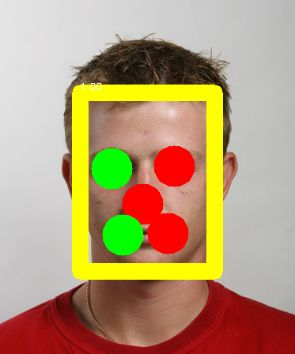
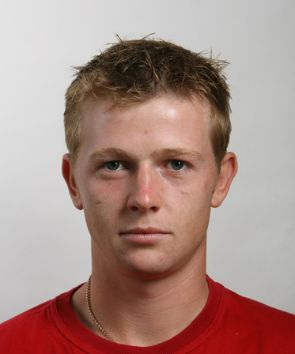
emotion prediction

Changed region(s): [[0.2136, 0.2175, 0.7627, 0.8079]]

diff --git a/fipu_face/fipu_face.py b/fipu_face/fipu_face.py
@@ -5,12 +5,12 @@ from fipu_face.utils import *
 from fipu_face.img_utils import *
 from exceptions.image_exception import ImageException
 from fipu_face.img_config import *
+from fipu_face.facial_landmarks.emotion import *
 
 IMAGE_PADDING_UP_DOWN = 0.5
 
 MAX_EYES_Y_DIFF_PCT = 5
 MAX_NOSE_EYES_DIST_DIFF_PCT = 10
-
 
 INCH = 25.4
 
@@ -132,6 +132,15 @@ def check_face_alignment(f):
         raise ImageException("Ne gleda ravno")
 
 
+def check_face_emotion(frame, f, imc):
+    emotion = detect_emotion(frame, f)
+    if emotion not in imc.allowed_emotions:
+        if emotion == EMOTION_NONE:
+            raise ImageException("Nemoguće očitati emociju. Maknite sve predmete koji sakrivaju lice (maska, ruke itd.)")
+        else:
+            raise ImageException("Nedozvoljena emocija {}. Dozvoljene emocije: {}".format(emotion, imc.allowed_emotions))
+
+
 def detect(frame, imc=ImgX):
     # start_time = time.time()
     # print("Scale: ", calc_scale(frame))
@@ -145,9 +154,10 @@ def detect(frame, imc=ImgX):
 
     f = faces[0]
     # print(f.det_score)
-    draw_marks(frame, f, False)
+    # draw_marks(frame, f, False)
 
     check_face_alignment(f)
+    check_face_emotion(frame, f, imc)
 
     # frame = crop_img(frame, f)
     frame = crop_img(frame, f, imc)
@@ -182,5 +192,3 @@ def get_from_bytes(img_bytes, img_format=IMG_FORMAT_X, encoding=ENCODING_BASE64)
         return __do_detect(img_bytes, img_format, encoding)
     except:
         raise ImageException("Invalid image bytes")
-
-

diff --git a/fipu_face/img_config.py b/fipu_face/img_config.py
@@ -11,6 +11,8 @@
 # sirina glave: 17.5-25
 # visina glave: 31.5-36 (beba(<11 god): 22.5-36)
 
+from fipu_face.facial_landmarks.emotion import *
+
 IMG_DPI = 300
 
 IMG_FORMAT_X = 'x'
@@ -21,11 +23,12 @@ IMG_FORMAT_35x45_11 = '35x45_11'
 
 
 class ImgConfig:
-    def __init__(self, width, height, hw_range, hh_range):
+    def __init__(self, width, height, hw_range, hh_range, emotions=tuple(EMOTION_NEUTRAL)):
         self.w = width
         self.h = height
         self.hw_range = hw_range
         self.hh_range = hh_range
+        self.allowed_emotions = emotions
 
 
 Img30x35_11Plus = ImgConfig(width=30,
@@ -51,7 +54,8 @@ Img35x45_11 = ImgConfig(width=35,
 ImgX = ImgConfig(width=25,
                  height=30,
                  hw_range=(12.5, 13.5),
-                 hh_range=(15.5, 16.5))
+                 hh_range=(15.5, 16.5),
+                 emotions=(EMOTION_NEUTRAL, EMOTION_HAPPY))
 
 __all_formats = {
     IMG_FORMAT_X: ImgX,

diff --git a/fipu_face/facial_landmarks/emotion.py b/fipu_face/facial_landmarks/emotion.py
@@ -1,0 +1,27 @@
+from fer import FER
+
+__detector = FER(mtcnn=True)
+
+EMOTION_ANGRY = 'angry'
+EMOTION_DISGUST = 'disgust'
+EMOTION_FEAR = 'fear'
+EMOTION_HAPPY = 'happy'
+EMOTION_NEUTRAL = 'neutral'
+EMOTION_SAD = 'sad'
+EMOTION_SURPRISE = 'surprise'
+EMOTION_NONE = "no emotion"
+
+
+def detect_emotion(frame, f):
+    w = frame.shape[1]
+    h = frame.shape[0]
+
+    left = f.bbox[0] - 50
+    top = f.bbox[1] - 100
+    right = f.bbox[2] + 50
+    bottom = f.bbox[3] + 50
+
+    frame = frame[int(max(top, 0)):int(min(bottom, h)), int(max(left, 0)):int(min(right, w))]
+    if len(__detector.detect_emotions(frame)) > 0:
+        return __detector.top_emotion(frame)[0]
+    return EMOTION_NONE
